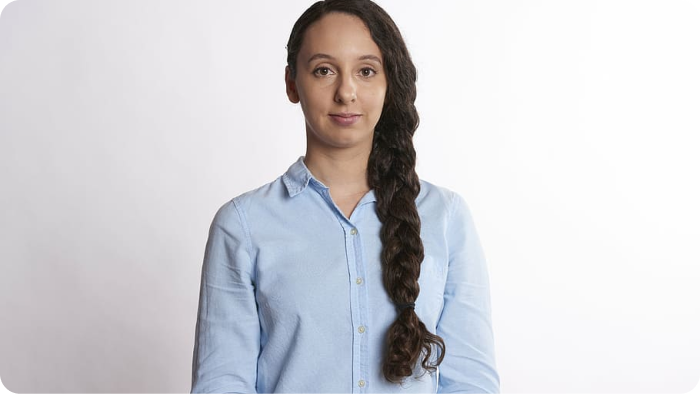
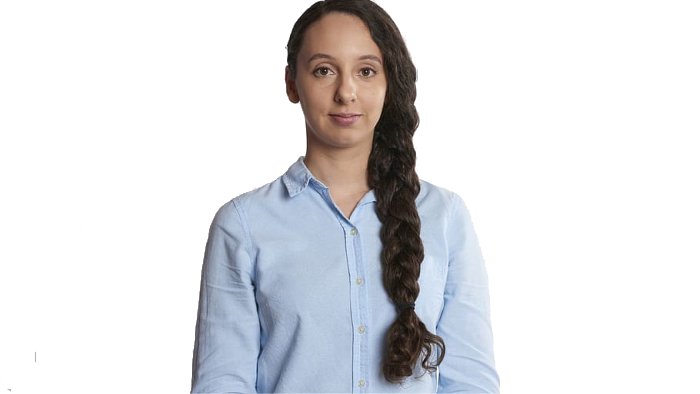
preview image and backgrounds management

Changed region(s): [[0.0, 0.0, 0.33, 1.0]]

diff --git a/src/components/Toolbox/ToolboxActors.js b/src/components/Toolbox/ToolboxActors.js
@@ -16,12 +16,12 @@ const defaultActors = [
   {
     id : 'actor3',
     label : 'May',
-    src : require('../../assets/img/actors/3.jpg'),
+    src : require('../../assets/img/actors/3.png'),
   },
   {
     id : 'actor4',
     label : 'Peter',
-    src : require('../../assets/img/actors/4.jpg'),
+    src : require('../../assets/img/actors/4.png'),
   },
   {
     id : 'actor5',
@@ -31,12 +31,12 @@ const defaultActors = [
   {
     id : 'actor6',
     label : 'Skey',
-    src : require('../../assets/img/actors/6.jpg'),
+    src : require('../../assets/img/actors/6.png'),
   },
   {
     id : 'actor7',
     label : 'Vincent',
-    src : require('../../assets/img/actors/7.jpg'),
+    src : require('../../assets/img/actors/7.png'),
   }
 ]
 

diff --git a/src/components/Preview/Preview.js b/src/components/Preview/Preview.js
@@ -23,7 +23,10 @@ export const Preview = () => {
 
   return (
     <section className="preview">
-      <div className="preview__image">
+      <div className="preview__image" style={{
+        backgroundImage: `url(${videoContext.background.src})`,
+        backgroundSize: `cover`
+      }}>
         <picture>
           <img src={videoContext.actor.src || actor} alt="selected video settings"/>
         </picture>
